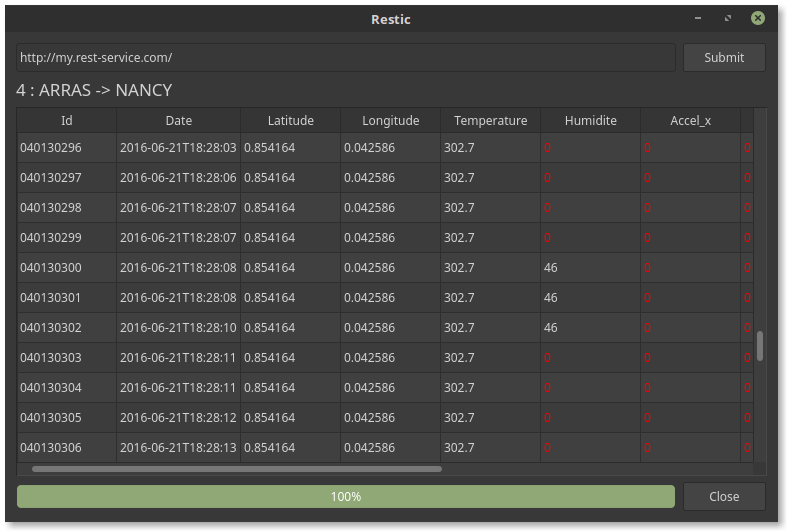
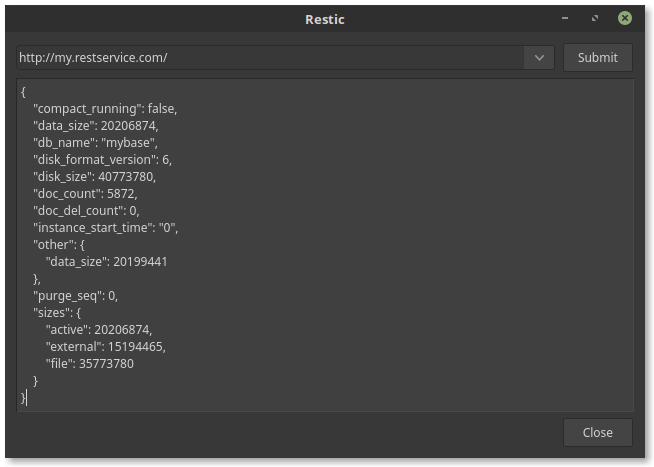
Working base
Deletes all test related code.

diff --git a/mainwindow.cpp b/mainwindow.cpp
@@ -2,45 +2,18 @@
 #include <QNetworkRequest>
 #include <QNetworkReply>
 #include <QJsonDocument>
-#include <QJsonObject>
 #include <QMessageBox>
-#include <QJsonArray>
-#include <QDateTime>
-#include <QStringList>
-#include <QStandardItemModel>
-#include <QStandardItem>
 #include <QPropertyAnimation>
 #include <QEasingCurve>
+
 #include "mainwindow.h"
 #include "ui_mainwindow.h"
-#include "route.h"
-#include "state.h"
 
 MainWindow::MainWindow(QWidget *parent) :
     QMainWindow(parent),
     ui(new Ui::MainWindow)
 {
     ui->setupUi(this);
-
-    ui->urlLineEdit->addItem("");
-    ui->urlLineEdit->addItem("http://sky-net.fr:5984/blackbox/ea6b5cc84253db9af86f2dc776002301");
-    ui->urlLineEdit->addItem("http://sky-net.fr:5984/blackbox/ea6b5cc84253db9af86f2dc776002741");
-
-    QStandardItemModel *model = new QStandardItemModel(0, 12, this);
-    model->setHorizontalHeaderItem(0, new QStandardItem(QString("Id")));
-    model->setHorizontalHeaderItem(1, new QStandardItem(QString("Date")));
-    model->setHorizontalHeaderItem(2, new QStandardItem(QString("Latitude")));
-    model->setHorizontalHeaderItem(3, new QStandardItem(QString("Longitude")));
-    model->setHorizontalHeaderItem(4, new QStandardItem(QString("Temperature")));
-    model->setHorizontalHeaderItem(5, new QStandardItem(QString("Humidite")));
-    model->setHorizontalHeaderItem(6, new QStandardItem(QString("Accel_x")));
-    model->setHorizontalHeaderItem(7, new QStandardItem(QString("Accel_y")));
-    model->setHorizontalHeaderItem(8, new QStandardItem(QString("Accel_z")));
-    model->setHorizontalHeaderItem(9, new QStandardItem(QString("Gyro_yaw")));
-    model->setHorizontalHeaderItem(10, new QStandardItem(QString("Gyro_pitch")));
-    model->setHorizontalHeaderItem(11, new QStandardItem(QString("Gyro_roll")));
-
-    ui->tableView->setModel(model);
 }
 
 MainWindow::~MainWindow()
@@ -55,23 +28,8 @@ void MainWindow::on_submitButton_clicked()
 
     connect(manager, SIGNAL(finished(QNetworkReply*)), this, SLOT(onResult(QNetworkReply*)));
     connect(reply, SIGNAL(downloadProgress(qint64, qint64)), this, SLOT(requestDownloadProgress(qint64, qint64)));
-    connect(reply, SIGNAL(error(QNetworkReply::NetworkError)), this, SLOT(requestError(QNetworkReply::NetworkError)));
 
-    QPropertyAnimation* animation = new QPropertyAnimation(ui->label, "maximumSize");
-    animation->setDuration(1000);
-    animation->setEndValue(QSize(16777215, 0));
-    animation->setEasingCurve(QEasingCurve::OutExpo);
-    animation->start();
-    QPropertyAnimation* animation2 = new QPropertyAnimation(ui->labelErrors, "maximumSize");
-    animation2->setDuration(1000);
-    animation2->setEndValue(QSize(16777215, 0));
-    animation2->setEasingCurve(QEasingCurve::OutExpo);
-    animation2->start();
-    QPropertyAnimation* animation3 = new QPropertyAnimation(ui->progressBar, "maximumSize");
-    animation3->setDuration(1000);
-    animation3->setEndValue(QSize(16777215, 32));
-    animation3->setEasingCurve(QEasingCurve::OutExpo);
-    animation3->start();
+    showProgressBar(true);
 }
 
 void MainWindow::on_closeButton_clicked()
@@ -79,259 +37,69 @@ void MainWindow::on_closeButton_clicked()
     this->close();
 }
 
-/**
- * Slot appelé quand la requête a aboutit et que l'on a téléchargé les données
- * @brief MainWindow::onResult
- * @param reply
- */
 void MainWindow::onResult(QNetworkReply* reply)
 {
     if (reply->error() != QNetworkReply::NoError) {
+        QMessageBox::warning(this, "Network error", reply->errorString());
+        showProgressBar(false);
         return;
-        QPropertyAnimation* animation3 = new QPropertyAnimation(ui->progressBar, "maximumSize");
-        animation3->setDuration(1000);
-        animation3->setEndValue(QSize(16777215, 0));
-        animation3->setEasingCurve(QEasingCurve::OutExpo);
-        animation3->start();
     }
 
-    // Vide la liste si elle avait déjà des données
-    ((QStandardItemModel*)ui->tableView->model())->setRowCount(0);
+    ui->resultTextEdit->clear();
 
-    // Extrait le contenu du téléchargement
     QString download = (QString) reply->readAll();
 
-    // Tente de parser le json
     QJsonParseError err;
     QJsonDocument json = QJsonDocument::fromJson(download.toUtf8(), &err);
 
     if (err.error != QJsonParseError::NoError) {
-        QMessageBox::warning(this, "Erreur", err.errorString() + " Position : " + QString::number(err.offset));
-        ui->progressBar->setValue(0);
+        QMessageBox::warning(this, "Error found in Json document", err.errorString() + " Position : " + QString::number(err.offset));
+        showProgressBar(false);
         return;
     }
 
-    // Récupère l'objet racine du document Json
-    QJsonObject root = json.object();
+    ui->resultTextEdit->setPlainText(json.toJson());
 
-    // Instancie un objet Route avec les informations du Json
-    Route route;
-    route.IdGroupeExars = root["IdGroupeExars"].toString();
-    route.NomCentreInit = root["NomCentreInit"].toString();
-    route.NomCentreDest = root["NomCentreDest"].toString();
-
-    ui->label->setText(route.IdGroupeExars + " : " + route.NomCentreInit + " -> " + route.NomCentreDest);
-    QPropertyAnimation* animation = new QPropertyAnimation(ui->label, "maximumSize");
-    animation->setDuration(1000);
-    //animation->setStartValue(QSize(16777215, 0));
-    animation->setEndValue(QSize(16777215, 32));
-    animation->setEasingCurve(QEasingCurve::OutExpo);
-    animation->start();
-    QPropertyAnimation* animation2 = new QPropertyAnimation(ui->labelErrors, "maximumSize");
-    animation2->setDuration(1000);
-    //animation2->setStartValue(QSize(16777215, 0));
-    animation2->setEndValue(QSize(16777215, 32));
-    animation2->setEasingCurve(QEasingCurve::OutExpo);
-    animation2->start();
-
-    // Récupère le tableau Json contenant les enregistrements
-    QJsonArray data = root["DATA"].toArray();
-
-    // Instancie la liste les enregistrements
-    State* state = new State();
-
-    long errorCount = 0;
-
-    // Parcours les enregistrements du Json
-    for (int i = 0 ; i < data.count() ; i++) {
-        QJsonObject s = data.at(i).toObject();
-
-        // Remplit l'objet State
-        state->id = s["id"].toString();
-        state->DateHeure = QDateTime::fromString(s["DateHeure"].toString(), Qt::ISODate);
-        state->Longitude = s["Longitude"].toDouble();
-        state->Latitude = s["Latitude"].toDouble();
-        state->Gyro_yaw = s["Gyro_yaw"].toDouble();
-        state->Gyro_pitch = s["Gyro_pitch"].toDouble();
-        state->Gyro_roll = s["Gyro_roll"].toDouble();
-        state->Accel_x = s["Accel_x"].toDouble();
-        state->Accel_y = s["Accel_y"].toDouble();
-        state->Accel_z = s["Accel_z"].toDouble();
-        state->Temperature = s["Temperature"].toDouble();
-        state->Humidite = s["Humidite"].toInt();
-
-        route.states.append(*state);
-
-        // Affiche cet objet State dans le tableau, avec des couleurs ;)
-        QBrush redBrush(Qt::red, Qt::SolidPattern);
-        QBrush whiteBrush(Qt::white, Qt::SolidPattern);
-
-        QStandardItem *row = new QStandardItem(state->id);
-        ((QStandardItemModel*)ui->tableView->model())->setItem(i, 0, row);
-
-        row = new QStandardItem(state->DateHeure.toString(Qt::ISODate));
-        ((QStandardItemModel*)ui->tableView->model())->setItem(i, 1, row);
-
-        row = new QStandardItem(QString::number(state->Latitude));
-        ((QStandardItemModel*)ui->tableView->model())->setItem(i, 2, row);
-        if (state->Latitude == 0) {
-            row->setForeground(redBrush);
-        }
-
-        row = new QStandardItem(QString::number(state->Longitude));
-        ((QStandardItemModel*)ui->tableView->model())->setItem(i, 3, row);
-        if (state->Longitude == 0) {
-            row->setForeground(redBrush);
-        }
-
-        row = new QStandardItem(QString::number(state->Temperature));
-        ((QStandardItemModel*)ui->tableView->model())->setItem(i, 4, row);
-        if (state->Temperature == 0) {
-            row->setForeground(redBrush);
-        }
-        else if (state->Temperature > 303) {
-            row->setBackground(redBrush);
-            row->setForeground(whiteBrush);
-            errorCount++;
-        }
-        else if (state->Temperature < 274) {
-            row->setBackground(redBrush);
-            row->setForeground(whiteBrush);
-            errorCount++;
-        }
-
-        row = new QStandardItem(QString::number(state->Humidite));
-        ((QStandardItemModel*)ui->tableView->model())->setItem(i, 5, row);
-        if (state->Humidite == 0) {
-            row->setForeground(redBrush);
-        }
-        else if (state->Humidite > 60) {
-            row->setBackground(redBrush);
-            row->setForeground(whiteBrush);
-            errorCount++;
-        }
-
-        row = new QStandardItem(QString::number(state->Accel_x));
-        ((QStandardItemModel*)ui->tableView->model())->setItem(i, 6, row);
-        if (state->Accel_x == 0) {
-            row->setForeground(redBrush);
-        }
-        else if (state->Accel_x > 20) {
-            row->setBackground(redBrush);
-            row->setForeground(whiteBrush);
-            errorCount++;
-        }
-        else if (state->Accel_x < -20) {
-            row->setBackground(redBrush);
-            row->setForeground(whiteBrush);
-            errorCount++;
-        }
-
-        row = new QStandardItem(QString::number(state->Accel_y));
-        ((QStandardItemModel*)ui->tableView->model())->setItem(i, 7, row);
-        if (state->Accel_y == 0) {
-            row->setForeground(redBrush);
-        }
-        else if (state->Accel_y > 20) {
-            row->setBackground(whiteBrush);
-            row->setForeground(whiteBrush);
-            errorCount++;
-        }
-        else if (state->Accel_y < -20) {
-            row->setBackground(whiteBrush);
-            row->setForeground(whiteBrush);
-            errorCount++;
-        }
-
-        row = new QStandardItem(QString::number(state->Accel_z));
-        ((QStandardItemModel*)ui->tableView->model())->setItem(i, 8, row);
-        if (state->Accel_z == 0) {
-            row->setForeground(redBrush);
-        }
-        else if (state->Accel_z > 20) {
-            row->setBackground(whiteBrush);
-            row->setForeground(whiteBrush);
-            errorCount++;
-        }
-        else if (state->Accel_z < -20) {
-            row->setBackground(whiteBrush);
-            row->setForeground(whiteBrush);
-            errorCount++;
-        }
-
-        row = new QStandardItem(QString::number(state->Gyro_yaw));
-        ((QStandardItemModel*)ui->tableView->model())->setItem(i, 9, row);
-        if (state->Gyro_yaw == 0) {
-            row->setForeground(redBrush);
-        }
-
-        row = new QStandardItem(QString::number(state->Gyro_pitch));
-        ((QStandardItemModel*)ui->tableView->model())->setItem(i, 10, row);
-        if (state->Gyro_pitch == 0) {
-            row->setForeground(redBrush);
-        }
-
-        row = new QStandardItem(QString::number(state->Gyro_roll));
-        ((QStandardItemModel*)ui->tableView->model())->setItem(i, 11, row);
-        if (state->Gyro_roll == 0) {
-            row->setForeground(redBrush);
-        }
-
-        // Affiche la progression de l'analyse du fichier Json (50% -> 100%)
-        ui->progressBar->setValue(((i * 1.0f / data.count()) * 100) / 2 + 50);
-    }
-
-    ui->tableView->setVisible(false);
-    ui->tableView->resizeColumnsToContents();
-    ui->tableView->setVisible(true);
-
-    if (errorCount > 0)
-        ui->labelErrors->setText("Valeurs hors normes : " + QString::number(errorCount));
-    else
-        ui->labelErrors->setText("");
-
-    ui->progressBar->setValue(100);
-    QPropertyAnimation* animation3 = new QPropertyAnimation(ui->progressBar, "maximumSize");
-    animation3->setDuration(1000);
-    animation3->setEndValue(QSize(16777215, 0));
-    animation3->setEasingCurve(QEasingCurve::OutExpo);
-    animation3->start();
-
-    delete state;
+    showProgressBar(false);
 }
 
-/**
- * Slot appelé quand le téléchargement progresse
- * @brief MainWindow::requestDownloadProgress
- * @param bytesReceived
- * @param bytesTotal
- */
 void MainWindow::requestDownloadProgress(qint64 bytesReceived, qint64 bytesTotal) {
-    int pourcent = (bytesReceived * 1.0f / bytesTotal) * 100 / 2; // (0% -> 50%)
-    ui->progressBar->setValue(pourcent);
-}
-
-/**
- * Slot appelé quand le téléchargement a échoué
- * @brief MainWindow::requestError
- * @param error
- */
-void MainWindow::requestError(QNetworkReply::NetworkError error) {
-    QMessageBox::warning(this, "Erreur de connexion", "Impossible d'accéder à l'URL demandée");
-    ui->progressBar->setValue(0);
-    QPropertyAnimation* animation3 = new QPropertyAnimation(ui->progressBar, "maximumSize");
-    animation3->setDuration(1000);
-    animation3->setEndValue(QSize(16777215, 0));
-    animation3->setEasingCurve(QEasingCurve::OutExpo);
-    animation3->start();
-}
-
-void MainWindow::on_urlLineEdit_returnPressed()
-{
-    on_submitButton_clicked();
+    if (bytesTotal < 1024) {
+        ui->progressBar->setFormat("%v / %m");
+        ui->progressBar->setValue(bytesReceived);
+        ui->progressBar->setMaximum(bytesTotal);
+    }
+    else {
+        ui->progressBar->setFormat("%v kio / %m kio");
+        ui->progressBar->setValue(bytesReceived / 1024);
+        ui->progressBar->setMaximum(bytesTotal / 1024);
+    }
 }
 
 void MainWindow::on_MainWindow_destroyed()
 {
 
+}
+
+void MainWindow::showProgressBar(bool show = true)
+{
+    if (show) {
+        ui->progressBar->setValue(0);
+        ui->progressBar->setMaximum(0);
+        QPropertyAnimation* a = new QPropertyAnimation(ui->progressBar, "maximumSize");
+        a->setDuration(1000);
+        a->setEndValue(QSize(16777215, 32));
+        a->setEasingCurve(QEasingCurve::OutExpo);
+        a->start();
+    }
+    else {
+        ui->progressBar->setFormat("");
+        ui->progressBar->setValue(0);
+        ui->progressBar->setMaximum(0);
+        QPropertyAnimation* a = new QPropertyAnimation(ui->progressBar, "maximumSize");
+        a->setDuration(1000);
+        a->setEndValue(QSize(16777215, 0));
+        a->setEasingCurve(QEasingCurve::OutExpo);
+        a->start();
+    }
 }

diff --git a/mainwindow.h b/mainwindow.h
@@ -15,6 +15,8 @@ public:
     explicit MainWindow(QWidget *parent = 0);
     ~MainWindow();
 
+    void showProgressBar(bool show);
+
 private slots:
     void on_closeButton_clicked();
 
@@ -22,9 +24,6 @@ private slots:
 
     void onResult(QNetworkReply* reply);
     void requestDownloadProgress(qint64 bytesReceived, qint64 bytesTotal);
-    void requestError(QNetworkReply::NetworkError);
-
-    void on_urlLineEdit_returnPressed();
 
     void on_MainWindow_destroyed();
 

diff --git a/main.cpp b/main.cpp
@@ -1,5 +1,6 @@
-#include "mainwindow.h"
 #include <QApplication>
+
+#include "mainwindow.h"
 
 int main(int argc, char *argv[])
 {
